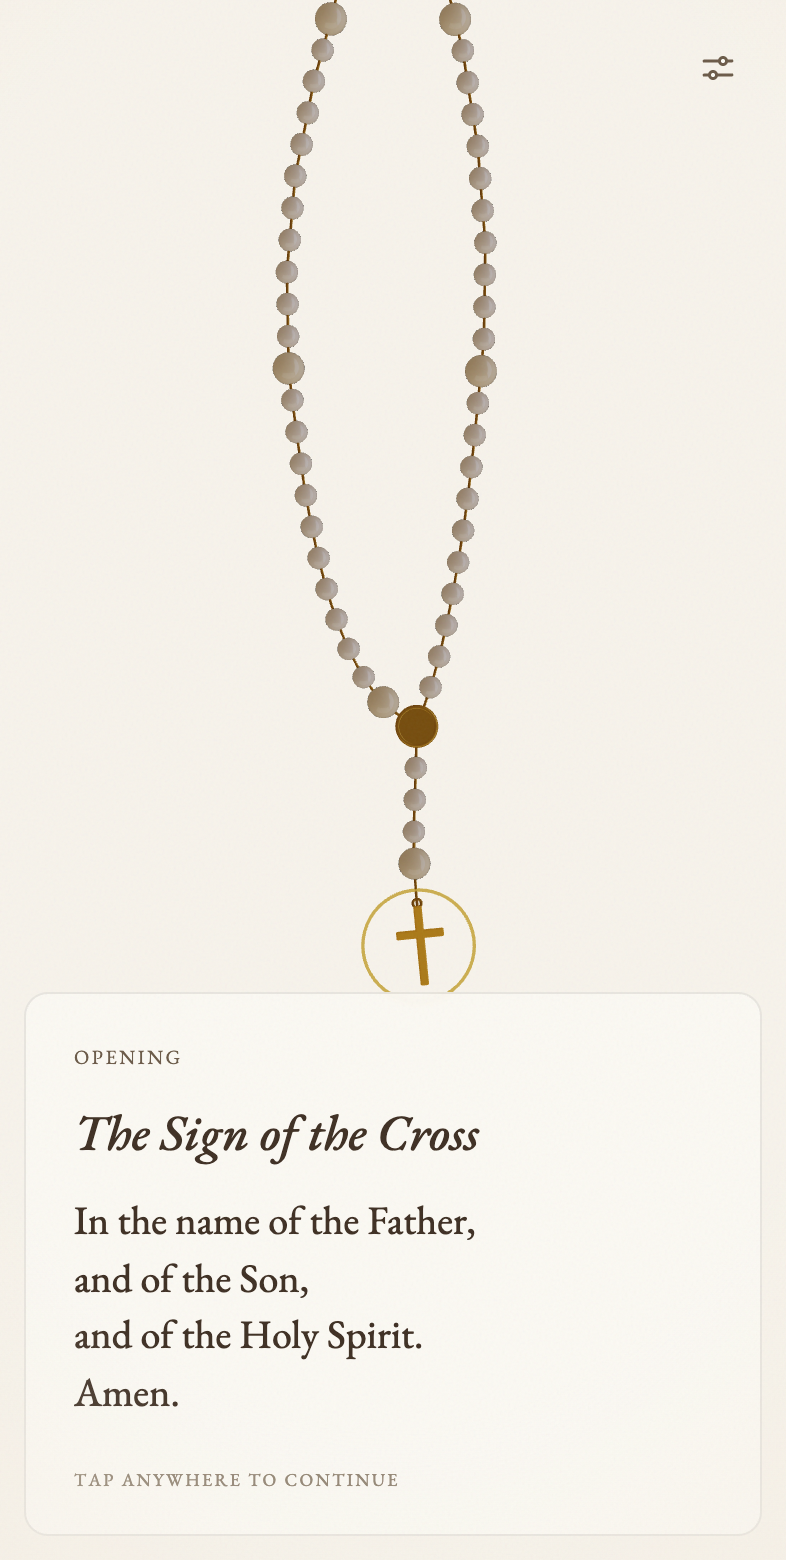
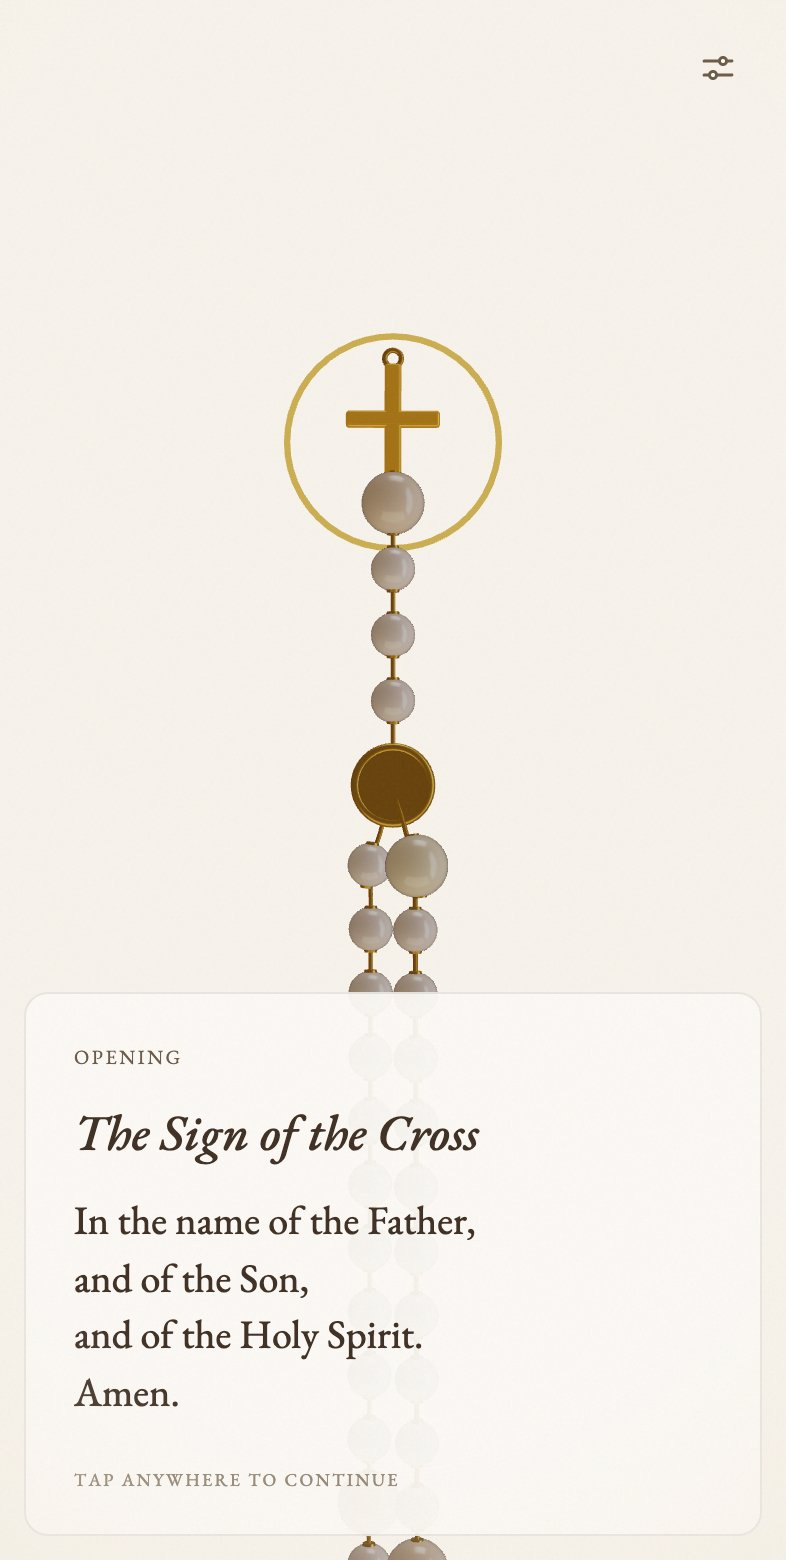
fix: review pass two — physics precision and gesture correctness
Sleep detection measures velocity without gravity (it never engaged),
flick velocity survives 60Hz substep quantization, 120Hz substep
aliasing smoothed, held bead snaps home. Initial drape splits the loop
strands when holding pendant beads, crucifix orientation floor is
continuous, pinch tracks its two finger ids, button taps no longer
advance the rosary, invisible Back button leaves the tab order, Escape
closes overlays, v1 localStorage migrates without re-showing the guide.

Changed region(s): [[0.3359, 0.0, 0.6412, 0.6462], [0.4275, 0.9846, 0.5802, 1.0]]

diff --git a/src/App.tsx b/src/App.tsx
@@ -18,12 +18,18 @@ export default function App() {
 
   const pointers = useRef(new Map<number, { x: number; y: number }>())
   const tap = useRef<{ x: number; y: number; t: number } | null>(null)
-  const pinchDist = useRef<number | null>(null)
+  const pinch = useRef<{ a: number; b: number; dist: number } | null>(null)
 
   // keyboard: space/→ advance, ←/backspace correct
   useEffect(() => {
     const onKey = (e: KeyboardEvent) => {
-      const { settingsOpen, guideOpen, guideSeen, advance, back } = useRosary.getState()
+      const { settingsOpen, guideOpen, guideSeen, advance, back, openSettings, openGuide } =
+        useRosary.getState()
+      if (e.key === 'Escape') {
+        if (settingsOpen) openSettings(false)
+        else if (guideOpen || !guideSeen) openGuide(false)
+        return
+      }
       if (settingsOpen || guideOpen || !guideSeen) return
       // let focused controls keep their native keyboard activation
       if (document.activeElement?.closest('button, a, input, [tabindex]')) return
@@ -39,27 +45,28 @@ export default function App() {
     return () => window.removeEventListener('keydown', onKey)
   }, [])
 
-  /** true when the event started on chrome that handles its own input */
-  const isUi = (e: React.PointerEvent) =>
-    (e.target as Element).closest('button, [data-card]') !== null
-
   const onPointerDown = (e: React.PointerEvent) => {
     if (e.pointerType === 'mouse' && e.button !== 0) return
-    const onUi = isUi(e)
+    const target = e.target as Element
+    const onButton = target.closest('button') !== null
+    const onCard = target.closest('[data-card]') !== null
     // capture so a release outside the window still delivers pointerup
-    if (!onUi) e.currentTarget.setPointerCapture(e.pointerId)
+    if (!onButton && !onCard) e.currentTarget.setPointerCapture(e.pointerId)
     pointers.current.set(e.pointerId, { x: e.clientX, y: e.clientY })
     if (pointers.current.size === 2) {
-      // pinch begins: stop dragging the chain, remember the finger gap
+      // pinch begins: stop dragging the chain, remember the finger pair
       grabApi.current?.release()
       tap.current = null
-      const [a, b] = [...pointers.current.values()]
-      pinchDist.current = Math.hypot(a.x - b.x, a.y - b.y)
+      const [a, b] = [...pointers.current.keys()]
+      const pa = pointers.current.get(a)!
+      const pb = pointers.current.get(b)!
+      pinch.current = { a, b, dist: Math.hypot(pa.x - pb.x, pa.y - pb.y) }
       return
     }
     if (pointers.current.size > 2) return
-    tap.current = { x: e.clientX, y: e.clientY, t: e.timeStamp }
-    if (!onUi) grabApi.current?.grab(e.clientX, e.clientY)
+    // buttons handle their own clicks — a tap there must not also advance
+    if (!onButton) tap.current = { x: e.clientX, y: e.clientY, t: e.timeStamp }
+    if (!onButton && !onCard) grabApi.current?.grab(e.clientX, e.clientY)
   }
 
   const onPointerMove = (e: React.PointerEvent) => {
@@ -67,11 +74,15 @@ export default function App() {
     if (!p) return
     p.x = e.clientX
     p.y = e.clientY
-    if (pinchDist.current !== null && pointers.current.size >= 2) {
-      const [a, b] = [...pointers.current.values()]
-      const d = Math.hypot(a.x - b.x, a.y - b.y)
-      zoomBy((d - pinchDist.current) * 0.004)
-      pinchDist.current = d
+    const pn = pinch.current
+    if (pn) {
+      const pa = pointers.current.get(pn.a)
+      const pb = pointers.current.get(pn.b)
+      if (pa && pb) {
+        const d = Math.hypot(pa.x - pb.x, pa.y - pb.y)
+        zoomBy((d - pn.dist) * 0.004)
+        pn.dist = d
+      }
       return
     }
     if (tap.current && Math.hypot(e.clientX - tap.current.x, e.clientY - tap.current.y) > TAP_SLOP) {
@@ -82,17 +93,24 @@ export default function App() {
 
   const onPointerUp = (e: React.PointerEvent) => {
     pointers.current.delete(e.pointerId)
-    if (pointers.current.size < 2) pinchDist.current = null
+    if (pinch.current && (e.pointerId === pinch.current.a || e.pointerId === pinch.current.b)) {
+      pinch.current = null
+    }
     grabApi.current?.release()
     const t = tap.current
     tap.current = null
-    if (t && e.timeStamp - t.t < TAP_MS) useRosary.getState().advance()
+    // e.detail > 1 = double-click word selection; never advance twice for it
+    if (t && e.timeStamp - t.t < TAP_MS && e.detail <= 1 && !window.getSelection()?.toString()) {
+      useRosary.getState().advance()
+    }
   }
 
   const onPointerCancel = (e: React.PointerEvent) => {
     // the browser took the gesture (e.g. card scroll) — never advance
     pointers.current.delete(e.pointerId)
-    if (pointers.current.size < 2) pinchDist.current = null
+    if (pinch.current && (e.pointerId === pinch.current.a || e.pointerId === pinch.current.b)) {
+      pinch.current = null
+    }
     grabApi.current?.release()
     tap.current = null
   }
@@ -116,7 +134,13 @@ export default function App() {
         <button
           type="button"
           aria-label={UI.back[lang]}
-          onClick={back}
+          onClick={(e) => {
+            back()
+            // a mouse click leaves focus here, which would turn Space into
+            // "press Back again" — keyboard activation (detail 0) keeps focus
+            if (e.detail > 0) e.currentTarget.blur()
+          }}
+          disabled={step === 0 || done}
           className={`cursor-pointer rounded-md border-0 bg-transparent p-3 text-ink-2 transition-opacity duration-300 hover:text-ink ${
             step > 0 && !done ? 'opacity-100' : 'pointer-events-none opacity-0'
           }`}
@@ -128,7 +152,10 @@ export default function App() {
         <button
           type="button"
           aria-label={UI.settings[lang]}
-          onClick={() => settings(true)}
+          onClick={(e) => {
+            settings(true)
+            if (e.detail > 0) e.currentTarget.blur()
+          }}
           className="cursor-pointer rounded-md border-0 bg-transparent p-3 text-ink-2 transition-colors duration-200 hover:text-ink"
         >
           <svg width="20" height="20" viewBox="0 0 20 20" fill="none" aria-hidden>

diff --git a/src/three/verlet.ts b/src/three/verlet.ts
@@ -100,13 +100,19 @@ function layout(chain: Chain): void {
     for (const n of neighbours[p]) {
       if (depth[n] >= 0) continue
       depth[n] = depth[p] + 1
-      // the loop ring is ordered in praying direction: +1 index = future
+      // the loop ring is ordered in praying direction: +1 index = future,
+      // bowing right; past bows left. When the walk enters the ring at the
+      // medal (from the pendant), the two strands must still split ±.
       branch[n] =
-        depth[p] === 0
-          ? n === (p + 1) % LOOP_PARTICLES && p < LOOP_PARTICLES
+        depth[p] === 0 && p < LOOP_PARTICLES
+          ? n === (p + 1) % LOOP_PARTICLES
             ? 1
             : -1
-          : branch[p]
+          : p === 0 && n < LOOP_PARTICLES
+            ? n === 1
+              ? 1
+              : -1
+            : branch[p]
       queue.push(n)
     }
   }
@@ -192,8 +198,8 @@ function substep(chain: Chain, damping: number): void {
       const dz = ANCHOR[2] - pos[x + 2]
       const dist = Math.hypot(dx, dy, dz)
       // exponential ease for the last stretch (a soft ~0.4s draw into the
-      // fingers), linear speed cap for long transfers so reset isn't slow
-      const s = dist > 1e-6 ? Math.min((PULL_SPEED * H) / dist, 0.055) : 0
+      // fingers), linear speed cap for long transfers, snap when arrived
+      const s = dist < 0.01 ? 1 : Math.min((PULL_SPEED * H) / dist, 0.055)
       prev[x] = pos[x]
       prev[x + 1] = pos[x + 1]
       prev[x + 2] = pos[x + 2]
@@ -211,7 +217,9 @@ function substep(chain: Chain, damping: number): void {
     pos[x] += vx
     pos[x + 1] += vy + g
     pos[x + 2] += vz
-    const m = Math.abs(vx) + Math.abs(vy + g) + Math.abs(vz)
+    // velocity only (not g): at rest the constraint solve cancels gravity's
+    // sink each substep, so v→0 while |g| alone would keep us awake forever
+    const m = Math.abs(vx) + Math.abs(vy) + Math.abs(vz)
     if (m > maxMove) maxMove = m
   }
   chain.calmFor = maxMove < SLEEP_EPSILON ? chain.calmFor + 1 : 0
@@ -279,10 +287,28 @@ export function stepChain(chain: Chain, dt: number, calm = false): void {
   if (isAsleep(chain)) return // at rest: skip the whole solve
   chain.accumulator = Math.min(chain.accumulator + dt, MAX_FRAME)
   const damping = calm ? DAMPING_CALM : DAMPING
-  while (chain.accumulator >= H) {
+  // the H epsilon stops 0/2-substep alternation on 120Hz displays, where
+  // dt hovers exactly at the substep boundary
+  while (chain.accumulator >= H - 1e-4) {
     substep(chain, damping)
-    chain.accumulator -= H
+    chain.accumulator = Math.max(0, chain.accumulator - H)
   }
+}
+
+/**
+ * Release the grabbed particle with the pointer's real velocity — the
+ * substep-quantized prev would zero the flick on 60Hz displays.
+ */
+export function releaseGrab(chain: Chain, vx: number, vy: number): void {
+  if (chain.grabbed >= 0) {
+    const speed = Math.hypot(vx, vy)
+    const s = speed > 30 ? 30 / speed : 1 // clamp runaway flicks
+    const x = chain.grabbed * 3
+    chain.prev[x] = chain.pos[x] - vx * s * H
+    chain.prev[x + 1] = chain.pos[x + 1] - vy * s * H
+  }
+  chain.grabbed = -1
+  chain.calmFor = 0
 }
 
 /** Nearest grabbable particle to a world point, within maxDist. */

diff --git a/src/three/Rosary.tsx b/src/three/Rosary.tsx
@@ -17,7 +17,7 @@ import {
 } from 'three'
 import { BEADS, SEQUENCE } from '../data/rosary'
 import { useRosary } from '../store'
-import { buildChain, holdBead, isAsleep, nearestParticle, stepChain } from './verlet'
+import { buildChain, holdBead, isAsleep, nearestParticle, releaseGrab, stepChain } from './verlet'
 import { grabApi, view } from './interaction'
 
 const RADIUS = { small: 0.21, large: 0.3 } as const
@@ -122,6 +122,7 @@ export function Rosary() {
   const camera = useThree((s) => s.camera)
   const size = useThree((s) => s.size)
   const pulse = useRef(0)
+  const lastDrag = useRef({ x: 0, y: 0, t: 0, vx: 0, vy: 0 })
 
   // pointer ↔ world: a ray from the camera onto the chain's z=0 plane
   const worldAt = (clientX: number, clientY: number, out: Vector3) => {
@@ -143,15 +144,24 @@ export function Rosary() {
         chain.grabbed = p
         chain.grabTarget = [tmpV.x, tmpV.y, 0]
         chain.calmFor = 0
+        lastDrag.current = { x: tmpV.x, y: tmpV.y, t: performance.now(), vx: 0, vy: 0 }
       },
       drag: (x, y) => {
         if (chain.grabbed < 0) return
         worldAt(x, y, tmpV)
         chain.grabTarget = [tmpV.x, tmpV.y, 0]
+        const d = lastDrag.current
+        const dt = (performance.now() - d.t) / 1000
+        if (dt > 0.004) {
+          d.vx = (tmpV.x - d.x) / dt
+          d.vy = (tmpV.y - d.y) / dt
+          d.x = tmpV.x
+          d.y = tmpV.y
+          d.t = performance.now()
+        }
       },
       release: () => {
-        chain.grabbed = -1
-        chain.calmFor = 0 // stay awake for the flick
+        releaseGrab(chain, lastDrag.current.vx, lastDrag.current.vy)
       },
     }
     return () => {
@@ -241,7 +251,11 @@ export function Rosary() {
       at(pos, beadParticle[0], cross.position)
       at(pos, beadParticle[0] - 1, tmpV)
       tmpV2.copy(cross.position).sub(tmpV).normalize().negate()
-      if (tmpV2.y < 0.1) tmpV2.set(tmpV2.x, Math.abs(tmpV2.y) + 0.4, tmpV2.z).normalize()
+      if (tmpV2.y < 0.35) {
+        // smooth floor: the cross leans but never swings past horizontal
+        tmpV2.y = 0.35 * Math.exp((tmpV2.y - 0.35) * 2)
+        tmpV2.normalize()
+      }
       cross.quaternion.setFromUnitVectors(UP, tmpV2)
     }
 

diff --git a/src/three/verlet.test.ts b/src/three/verlet.test.ts
@@ -1,6 +1,14 @@
 import { describe, expect, it } from 'vitest'
 import { BEADS } from '../data/rosary'
-import { ANCHOR, buildChain, holdBead, nearestParticle, stepChain, PARTICLE_COUNT } from './verlet'
+import {
+  ANCHOR,
+  buildChain,
+  holdBead,
+  isAsleep,
+  nearestParticle,
+  stepChain,
+  PARTICLE_COUNT,
+} from './verlet'
 
 const settle = (chain: ReturnType<typeof buildChain>, frames: number) => {
   for (let i = 0; i < frames; i++) stepChain(chain, 1 / 60)
@@ -69,6 +77,14 @@ describe('the verlet chain', () => {
     settle(chain, 1200)
     // gravity brings the dangle back under the anchor
     expect(Math.abs(chain.pos[grab * 3] - ANCHOR[0])).toBeLessThan(2.5)
+  })
+
+  it('falls asleep at rest and wakes on transfer', () => {
+    const chain = buildChain(0)
+    settle(chain, 1200)
+    expect(isAsleep(chain)).toBe(true)
+    holdBead(chain, 1)
+    expect(isAsleep(chain)).toBe(false)
   })
 
   it('keeps beads from interpenetrating while dangling', () => {

diff --git a/src/store.ts b/src/store.ts
@@ -52,6 +52,11 @@ export const useRosary = create<RosaryState>()(
     }),
     {
       name: 'rosary',
+      version: 2,
+      // v1 persisted guideOpen instead of guideSeen; anyone with stored
+      // state has already seen (or dismissed) the guide
+      migrate: (persisted, version) =>
+        version < 2 ? { ...(persisted as object), guideSeen: true } : persisted,
       partialize: ({ step, lang, mysteryOverride, sessionSet, sound, guideSeen }) => ({
         step,
         lang,

diff --git a/src/index.css b/src/index.css
@@ -18,7 +18,6 @@
   --color-gold-deep: oklch(0.47 0.095 75);
   --color-gold: oklch(0.55 0.11 80);
   --color-gold-bright: oklch(0.72 0.13 88);
-  --color-pearl: oklch(0.93 0.008 340);
 
   --font-*: initial;
   --font-serif: 'EB Garamond Variable', Georgia, 'Times New Roman', serif;

diff --git a/src/ui/SettingsSheet.tsx b/src/ui/SettingsSheet.tsx
@@ -111,6 +111,7 @@ function Chip({
   return (
     <button
       type="button"
+      aria-pressed={active}
       onClick={onClick}
       className={`caps cursor-pointer rounded-md border px-3.5 py-1.5 text-sm transition-colors duration-200 ${
         active